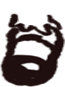
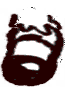
posterized the f2 standins and fix the missing parts

diff --git a/TDV/XnaBasics/CartoonElements.cs b/TDV/XnaBasics/CartoonElements.cs
@@ -102,7 +102,7 @@ namespace Microsoft.Samples.Kinect.XnaBasics
         {
             this.mapMethod = map;
             this.playerImageRenderer = pir;
-            this.tp = new TextureProvider(game, "f1");
+            this.tp = new TextureProvider(game, "m1");
         }
 
         /// <summary>
